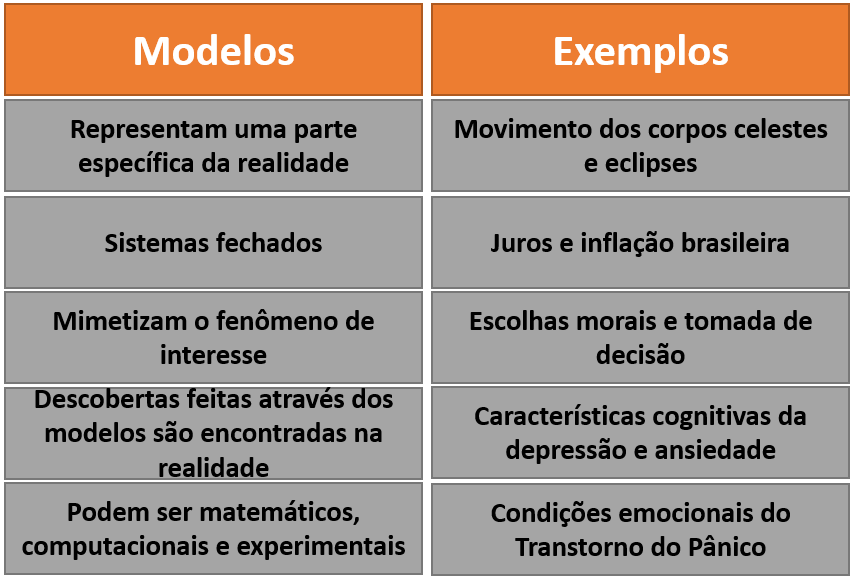
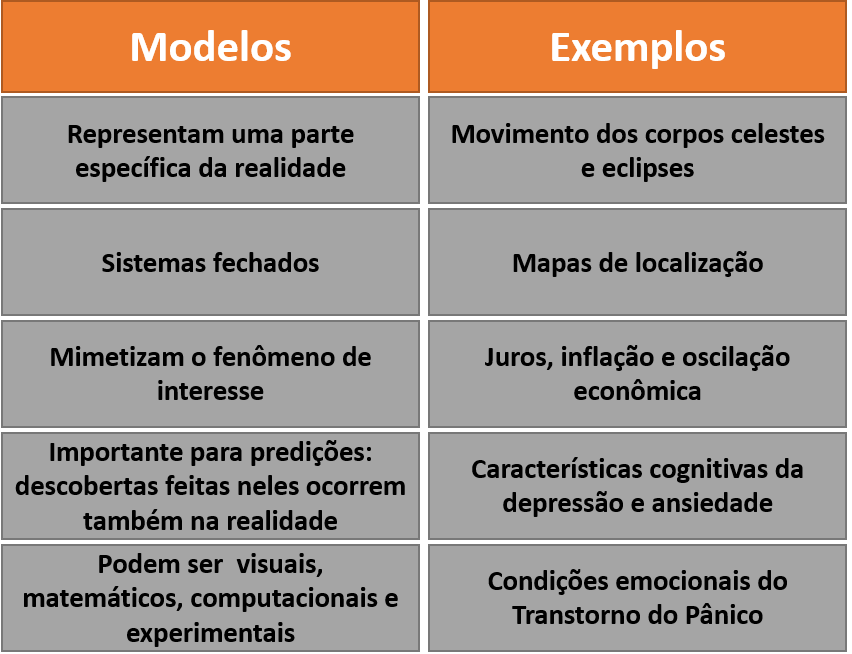
intro models

Changed region(s): [[0.0, 0.0, 1.0, 1.0], [0.5798, 0.3724, 0.946, 0.4345], [0.1221, 0.3724, 0.3967, 0.4345]]

diff --git a/docs/aspectos-gerais.html b/docs/aspectos-gerais.html
@@ -323,18 +323,25 @@ code span.wa { color: #60a0b0; font-weight: bold; font-style: italic; } /* Warni
 <div id="fundações-da-pesquisa-e-estatística" class="section level2">
 <h2><span class="header-section-number">2.1</span> Fundações da pesquisa e estatística</h2>
 <p>Existem alguns conceitos muito utilizados em pesquisa e estatística que servem como fundações da maior parte dos métodos e técnicas implementados quando se investiga um determinado fenômeno ou objeto através do método científico. Apesar de manuais técnicos divergirem em quantos e quais conceitos podem ser entendidos como elementos base em pesquisa e estatística, existe grande concordância em relação à (1) realidade e modelo e (2) constante e variáveis. Ambos serão introduzidos a seguir.</p>
-<p>Frequentemente, quando uma pesquisa é feita, ela visa responder uma pergunta específica sobre um fenômeno ou objeto. Muitas perguntas são possíveis a depender da área de interesse do investigador, bem como de sua época. Físicos e astrônomos do século XVI queriam investigar a organização do sistema solar, economistas do século XVIII tinham interesse em investigar a relação entre recursos e rendimentos financeiros e, mais recentemente, psicólogos do século XX se debruçaram a estudar o efeito da escolaridade no desenvolvimento de habilidades cognitivas, especialmente a inteligência. Esses três exemplos remontam à teoria heliocêntrica, a lei dos retornos marginais decrescentes e a teoria da reserva cognitiva.</p>
-<p>Apesar da diferença entre os interesses, uma característica compartilhada nestas pesquisas é a impossibilidade ou improbabilidade de se investigar diretamente a realidade. No exemplo da astronomia isso parece ser bastante claro, já que mesmo que pesquisas em física tenham características mais mecanicistas, só atualmente que o acesso mais direto da realidade foi possível e permitiu responder melhor essa questão. Além disso, na grande maioria das pesquisas, os fenômenos e objetos de interesse <u>não são sistemas fechados</u>. Isso significa que não é possível ou viável controlar todos os fatores relacionados ao que se tem interesse de estudar Por exemplo, quando se investiga como a escolaridade impacta nas habilidades cognitivas, os resultados podem (ou não) responder apenas inicialmente sobre um dos fatores relacionado à habilidade cognitiva, mas não todos.</p>
-<p>Entre as maneiras desenvolvidas por cientistas para lidar com esta situação está a construção de modelos teóricos e instrumentos de medida. Modelos científicos são representações da realidade e podem ser criados sob perspectiva matemática, computacional ou experimental. Eles tendem a ser sistemas fechados e visam reproduzir, precisamente, o fenômeno ou objeto de interesse. A qualidade desses modelos pode variar e entre as principais características positivas de um modelo estão a sua aderência com a realidade e a possibilidade de realizar simulação com ele. Em um modelo ideal, aquilo que fosse descoberto a partir dele, ocorreria identicamente na realidade. Evidentemente, modelos ideais não existem na grande maioria das áreas científicas, o que leva à conclusão de que os modelos são absolutamente essenciais à pesquisa, apesar de possuírem limitações <span class="citation">(<span class="citeproc-not-found" data-reference-id="Putnam1980"><strong>???</strong></span>)</span>. A figura a seguir apresenta tais características.</p>
+<p>Frequentemente, uma pesquisa é feita para responder uma pergunta específica sobre um fenômeno ou objeto. Muitas perguntas são possíveis a depender da área de interesse do investigador, bem como de sua época. Físicos e astrônomos do século XVI queriam investigar a organização do sistema solar, economistas do século XVIII tinham interesse em investigar a relação entre recursos e rendimentos financeiros e, mais recentemente, psicólogos do século XX se debruçaram a estudar o efeito da escolaridade no desenvolvimento de habilidades cognitivas, especialmente a inteligência. Esses três exemplos remontam à teoria heliocêntrica, a lei dos retornos marginais decrescentes e a teoria da reserva cognitiva.</p>
+<p>Apesar da diferença entre os interesses, uma característica compartilhada nestas pesquisas é a impossibilidade ou improbabilidade de se investigar diretamente a realidade. No exemplo da astronomia isso parece ser bastante claro, já que mesmo que pesquisas em física tenham características mais mecanicistas, só atualmente que o acesso mais direto da realidade foi possível e permitiu responder melhor essa questão. Além disso, na grande maioria das pesquisas, os fenômenos e objetos de interesse <u>não são sistemas fechados</u>. Isso significa que não é possível ou viável controlar todos os fatores relacionados ao que se tem interesse de estudar. Por exemplo, quando se investiga como a escolaridade impacta nas habilidades cognitivas, os resultados podem (ou não) responder apenas inicialmente sobre um dos fatores relacionado à habilidade cognitiva, mas não todos.</p>
+<p>Entre as maneiras desenvolvidas por cientistas para lidar com esta situação estão a construção de modelos teóricos e instrumentos de medida. Modelos científicos são representações da realidade e podem ser criados sob perspectiva visual, matemática, computacional ou experimental. Eles tendem a ser sistemas fechados e visam reproduzir, precisamente, o fenômeno ou objeto de interesse. A qualidade desses modelos pode variar e entre as principais características positivas de um modelo estão a sua aderência com a realidade e a possibilidade de realizar simulações e fazer predições com ele. A figura a seguir apresenta tais características.</p>
 <p><img src="img/cap_modelos_cientificos.PNG" /></p>
-<p>Por sua vez, os instrumentos de medida são recursos tecnológicos que permitem uma avaliação mais detalhada do fenômeno ou do objeto de investigação, bem como produzir dados que podem ser estudados, compartilhados e comparados. Com muita frequência, o registro que temos da realidade é baseado em nossos órgãos sensoriais que, por sua vez, são influenciados pela cultura em que estamos inseridos e pela aprendizagem prévia pela qual passamos.</p>
+<p>Em um modelo ideal, aquilo que fosse descoberto a partir dele, ocorreria identicamente na realidade. Evidentemente, modelos ideais não existem na grande maioria das áreas científicas, o que leva à conclusão de que os modelos são absolutamente essenciais à pesquisa, apesar de possuírem limitações <span class="citation">(Feigelson &amp; Babu, <a href="#ref-Feigelson1992" role="doc-biblioref">1992</a>; Frigg &amp; Hartmann, <a href="#ref-Firgg2020" role="doc-biblioref">2020</a>; Putnam, <a href="#ref-Putnam1980" role="doc-biblioref">1980</a>)</span>. Mapas cartográficos ilustram bem a importancia dos modelos. Apesar deles terem uma importância vital à pesquisa, todos os mapas que produzimos sobre o planeta distorcem algo da área e localização dos países.</p>
+<p><img src="img/cap_mapas.PNG" /></p>
+<p>Por sua vez, os instrumentos de medida são recursos tecnológicos que permitem uma avaliação mais detalhada do fenômeno ou do objeto de investigação, bem como produzir dados que podem ser estudados, compartilhados e comparados. Todas as áreas científicas desenvolvem e refinam instrumentos de medida e há autores que sugerem que tais recursos podem indicar também o quão madura e desenvolvida uma área é. Com muita frequência, o registro que temos da realidade é baseado em nossos órgãos sensoriais que, por sua vez, são influenciados pela cultura em que estamos inseridos e pela aprendizagem prévia pela qual passamos.</p>
 <p>A principal proposta dos instrumentos de medida é a captura da realidade de uma maneira mais direta, evitando possíveis interferência ou ruídos e produzindo dados confiáveis sobre o fenômeno ou objeto estudado. Existe uma grande translação entre modelos teóricos e instrumentos de medida. Apesar de não ser uma regra geral, muitas áreas científicas primeiro constroem modelos teóricos e o processo de medida ocorre nestes modelos. Por exemplo, há um conjunto de modelos psicológicos visando entender como ocorre o esquecimento que, por sua vez, permitiram desenvolver testes e escalas específicas para isso.</p>
 <p>Uma dos exemplos mais interessantes sobre a limitação que nossos sentidos possuem ao capturar a realidade e a importância do desenvolvimento de instrumentos de medida é perceção que temos do sol. A maioria das representações feitas do sol o apresentam como amarelo, quando na verdade ele é branco. Isso ocorre em função da atmosfera do planeta Terra e de diferentes gáses presentes no céu.</p>
 <p><img src="img/cap_sol.PNG" /></p>
 <p>Isso posto, o desenvolvimento de modelos teóricos e de instrumentos de medida são atividades essenciais de pesquisadores e cientistas para lidar com a impossibilidade ou improbabilidade de acessar a realidade de forma direta, bem como pela limitação perceptual que temos.</p>
-<p>O segundo conceito se dá na dicotomia constante vs. variáveis. De fato, essa relação também poderia ser vista pela dicotomia entre modelo determinístico e modelo probabilístico.</p>
-<p>De maneira geral, um fenômeno constante não apresenta dispersão em seus valores. Por sua vez, fenômenos variáveis são aqueles que podem assumir quaisquer condições em suas características. Enquanto a velocidade da luz e do som é, respectivamente, XX e XX; a altura ou a inteligência das pessoas podem variar bastante.
-A noção de modelos determinísticos e probabilísticos é intimamente associada a estes conceitos. Modelos determinísticos são aqueles que ___. Por sua vez, modelos probabilísticos são aqueles que lidam com variáveis e, com frequência, visam investigar o relacionamento entre elas.</p>
+<p>O segundo conceito se dá na dicotomia constante vs. variáveis. De maneira geral, um fenômeno constante não apresenta dispersão em seus valores. Em oposição, fenômenos variáveis podem assumir quaisquer valores em suas características. Enquanto a velocidade da luz e do som é, respectivamente, 324 m/s e 299.792 m/s; a renda, altura ou inteligência das pessoas podem variar bastante. De fato, essa dicotomia também poderia ser vista pelo conceito de modelos determinísticos e probabilísticos. Modelos determinísticos são aqueles que as condições iniciais determinam os resultados, enquanto modelos probabilísticos são os que associam probabilidades aos resultados.</p>
+<p>Em estatística e pesquisa, o termo variável pode ser entendido tanto de uma maneira bastante informal, como de uma forma mais rigorosa. Informalmente, uma variável é uma característica de um determinado objeto, tal como peso, altura, inteligência ou renda. Essa característica podem apresentar quaisquer valores e, assim, exemplificam o conceito de uma variável. No entanto, formalmente em estatística, quando o termo variável é utilizado, o que está em jogo é o conceito de variável aleatória. Por sua vez, este conceito se refere à uma classe de variáveis em que o conjunto possível de suas realizações (ou seja, seus valores ou desfechos) ocorrem de acordo com uma distribuição de probabilidade <span class="citation">(Everitt, <a href="#ref-everitt2002cambridge" role="doc-biblioref">2002</a>)</span>. Em estatística, uma variável aleatória é uma função que associa elementos do espaço amostral ao conjunto de números reais.</p>
+<p>Assim, o estudo das variáveis (aleatórias), tanto de maneira mais descritiva, como de forma inferencial, são os principais insumos da estatística.</p>
+<p>As variáveis podem ser organizadas por seu <u>relacionamento em uma pesquisa</u>, seu <u>nível ou escala de medida</u> e sua <u>capacidade informacional</u>.</p>
+<p>Em relação ao relacionamento entre as variáveis, inicialmente, é possível classificá-las em <u>independentes</u> e <u>dependentes</u>. Variáveis independentes são abreviadas pela sigla VI e também são chamadas de antecedentes, preditores, fatores ou variáveis de entrada. Variáveis dependentes são abreviadas por VD e também são chamadas de consequentes, previstas, desfechos ou variáveis saída. Em pesquisa, assume-se que ambas as variáveis são contectadas e que a VI gera ou causa a VD. No entanto, nem sempre essa lógica se aplica.</p>
+<p>Nesse sentido, as variáveis que são entendidas como VI e VD são definidas por condições temporais, lógicas ou teóricas <span class="citation">(Babbie, <a href="#ref-BabbieEarlR1990" role="doc-biblioref">1990</a>)</span>. Como exemplos de uma condição temporal, é possível verificar a influência do sexo (VI) na escolha profissional (VD) ou o efeito de um medicamento (VI) na dor de cabeça (VD). Em relação à condição lógica, ao se Verificar como a escolaridade afeta o preconceito é possível assumir que a escolaridade ;e a VI e o preconceito é a VD. Entretanto, alguém pode sugerir que pessoas mais ou menos preconceituosas podem se dedicar mais ou menos em atividades acadêmicas, invertendo a relação de causalidade. Finalmente, uma organização teórica ocorre quando se pretende investigar os efeitos da ansiedade na depressão. A eleição da ansiedade como VI foi uma escolha do pesquisador e não, necessariamente, uma condição temporal ou lógica.</p>
+<p>A figura a seguir expõe estes conceitos.</p>
+<p><img src="img/cap_vi_vd.PNG" /></p>
 </div>
 <div id="principais-áreas-da-estatística" class="section level2">
 <h2><span class="header-section-number">2.2</span> Principais áreas da estatística</h2>
@@ -426,8 +433,20 @@ Apesar de rígida, essa consideração tem fundamento, já que pela hierarquia d
 </div>
 <h3>References</h3>
 <div id="refs" class="references">
+<div id="ref-BabbieEarlR1990">
+<p>Babbie, E. R. (1990). <em>Survey research methods / earl babbie.</em> (2nd ed.). Wadsworth Pub. Co.</p>
+</div>
 <div id="ref-Borgatta1980">
 <p>Borgatta, E. F., &amp; Bohrnstedt, G. W. (1980). Level of measurement. <em>Sociological Methods &amp; Research</em>, <em>9</em>(2), 147–160. <a href="https://doi.org/10.1177/004912418000900202">https://doi.org/10.1177/004912418000900202</a></p>
+</div>
+<div id="ref-everitt2002cambridge">
+<p>Everitt, B. (2002). <em>The cambridge dictionary of statistics</em>. Cambridge University Press. <a href="http://www.worldcat.org/search?qt=worldcat_org_all&amp;q=052181099X">http://www.worldcat.org/search?qt=worldcat_org_all&amp;q=052181099X</a></p>
+</div>
+<div id="ref-Feigelson1992">
+<p>Feigelson, E. D., &amp; Babu, G. J. (Eds.). (1992). <em>Statistical challenges in modern astronomy</em>. Springer New York. <a href="https://doi.org/10.1007/978-1-4613-9290-3">https://doi.org/10.1007/978-1-4613-9290-3</a></p>
+</div>
+<div id="ref-Firgg2020">
+<p>Frigg, R., &amp; Hartmann, S. (2020). Models in Science. In E. N. Zalta (Ed.), <em>The Stanford encyclopedia of philosophy</em> (Spring 2020). <a href="https://plato.stanford.edu/archives/spr2020/entries/models-science/">https://plato.stanford.edu/archives/spr2020/entries/models-science/</a>; Metaphysics Research Lab, Stanford University.</p>
 </div>
 <div id="ref-howell2011">
 <p>Howell, D. C. (2011). <em>Fundamental statistics for the behavioral sciences (7th edition)</em>. Belmont.</p>
@@ -440,6 +459,9 @@ Apesar de rígida, essa consideração tem fundamento, já que pela hierarquia d
 </div>
 <div id="ref-privitera2016">
 <p>Privitera, G. J. (2016). <em>Statistics for the behavioral sciences</em>. SAGE.</p>
+</div>
+<div id="ref-Putnam1980">
+<p>Putnam, H. (1980). Models and reality. <em>Journal of Symbolic Logic</em>, <em>45</em>(3), 464–482. <a href="https://doi.org/10.2307/2273415">https://doi.org/10.2307/2273415</a></p>
 </div>
 <div id="ref-smart1999">
 <p>Smart, J. C. (1999). <em>Higher education: Handbook of theory and research</em>. Springer.</p>

diff --git a/docs/regressão-linear-múltipla.html b/docs/regressão-linear-múltipla.html
@@ -558,6 +558,9 @@ Um modelo de regressão múltipla foi calculado para verificar os resultados dos
 
 <div id="refs" class="references">
 <div>
+<p>Babbie, E. R. (1990). <em>Survey research methods / earl babbie.</em> (2nd ed.). Wadsworth Pub. Co.</p>
+</div>
+<div>
 <p>BAIRD, D. (1983). The fisher/pearson chi-squared controversy: A turning point for inductive inference. <em>The British Journal for the Philosophy of Science</em>, <em>34</em>(2), 105–118. <a href="https://doi.org/10.1093/bjps/34.2.105">https://doi.org/10.1093/bjps/34.2.105</a></p>
 </div>
 <div>
@@ -576,10 +579,19 @@ Um modelo de regressão múltipla foi calculado para verificar os resultados dos
 <p>Ernst, A. F., &amp; Albers, C. J. (2017). Regression assumptions in clinical psychology research practicea systematic review of common misconceptions. <em>PeerJ</em>, <em>5</em>, e3323. <a href="https://doi.org/10.7717/peerj.3323">https://doi.org/10.7717/peerj.3323</a></p>
 </div>
 <div>
+<p>Everitt, B. (2002). <em>The cambridge dictionary of statistics</em>. Cambridge University Press. <a href="http://www.worldcat.org/search?qt=worldcat_org_all&amp;q=052181099X">http://www.worldcat.org/search?qt=worldcat_org_all&amp;q=052181099X</a></p>
+</div>
+<div>
+<p>Feigelson, E. D., &amp; Babu, G. J. (Eds.). (1992). <em>Statistical challenges in modern astronomy</em>. Springer New York. <a href="https://doi.org/10.1007/978-1-4613-9290-3">https://doi.org/10.1007/978-1-4613-9290-3</a></p>
+</div>
+<div>
 <p>Field, A. P., &amp; Wilcox, R. R. (2017). Robust statistical methods: A primer for clinical psychology and experimental psychopathology researchers. <em>Behaviour Research and Therapy</em>, <em>98</em>, 19–38. <a href="https://doi.org/10.1016/j.brat.2017.05.013">https://doi.org/10.1016/j.brat.2017.05.013</a></p>
 </div>
 <div>
 <p>Fox, J. (2016). <em>Applied regression analysis and generalized linear models (3th edition)</em>. SAGE.</p>
+</div>
+<div>
+<p>Frigg, R., &amp; Hartmann, S. (2020). Models in Science. In E. N. Zalta (Ed.), <em>The Stanford encyclopedia of philosophy</em> (Spring 2020). <a href="https://plato.stanford.edu/archives/spr2020/entries/models-science/">https://plato.stanford.edu/archives/spr2020/entries/models-science/</a>; Metaphysics Research Lab, Stanford University.</p>
 </div>
 <div>
 <p>Gaudio, A. C., &amp; Zandonade, E. (2001). Proposição, validação e análise dos modelos que correlacionam estrutura química e atividade biológica. <em>Quimica Nova</em>, <em>24</em>(5), 658–671. <a href="https://doi.org/10.1590/s0100-40422001000500013">https://doi.org/10.1590/s0100-40422001000500013</a></p>
@@ -613,6 +625,9 @@ Um modelo de regressão múltipla foi calculado para verificar os resultados dos
 </div>
 <div>
 <p>Privitera, G. J. (2016). <em>Statistics for the behavioral sciences</em>. SAGE.</p>
+</div>
+<div>
+<p>Putnam, H. (1980). Models and reality. <em>Journal of Symbolic Logic</em>, <em>45</em>(3), 464–482. <a href="https://doi.org/10.2307/2273415">https://doi.org/10.2307/2273415</a></p>
 </div>
 <div>
 <p>Quené, H., &amp; Bergh, H. van den. (2004). On multi-level modeling of data from repeated measures designs: A tutorial. <em>Speech Communication</em>, <em>43</em>(1-2), 103–121. <a href="https://doi.org/10.1016/j.specom.2004.02.004">https://doi.org/10.1016/j.specom.2004.02.004</a></p>
